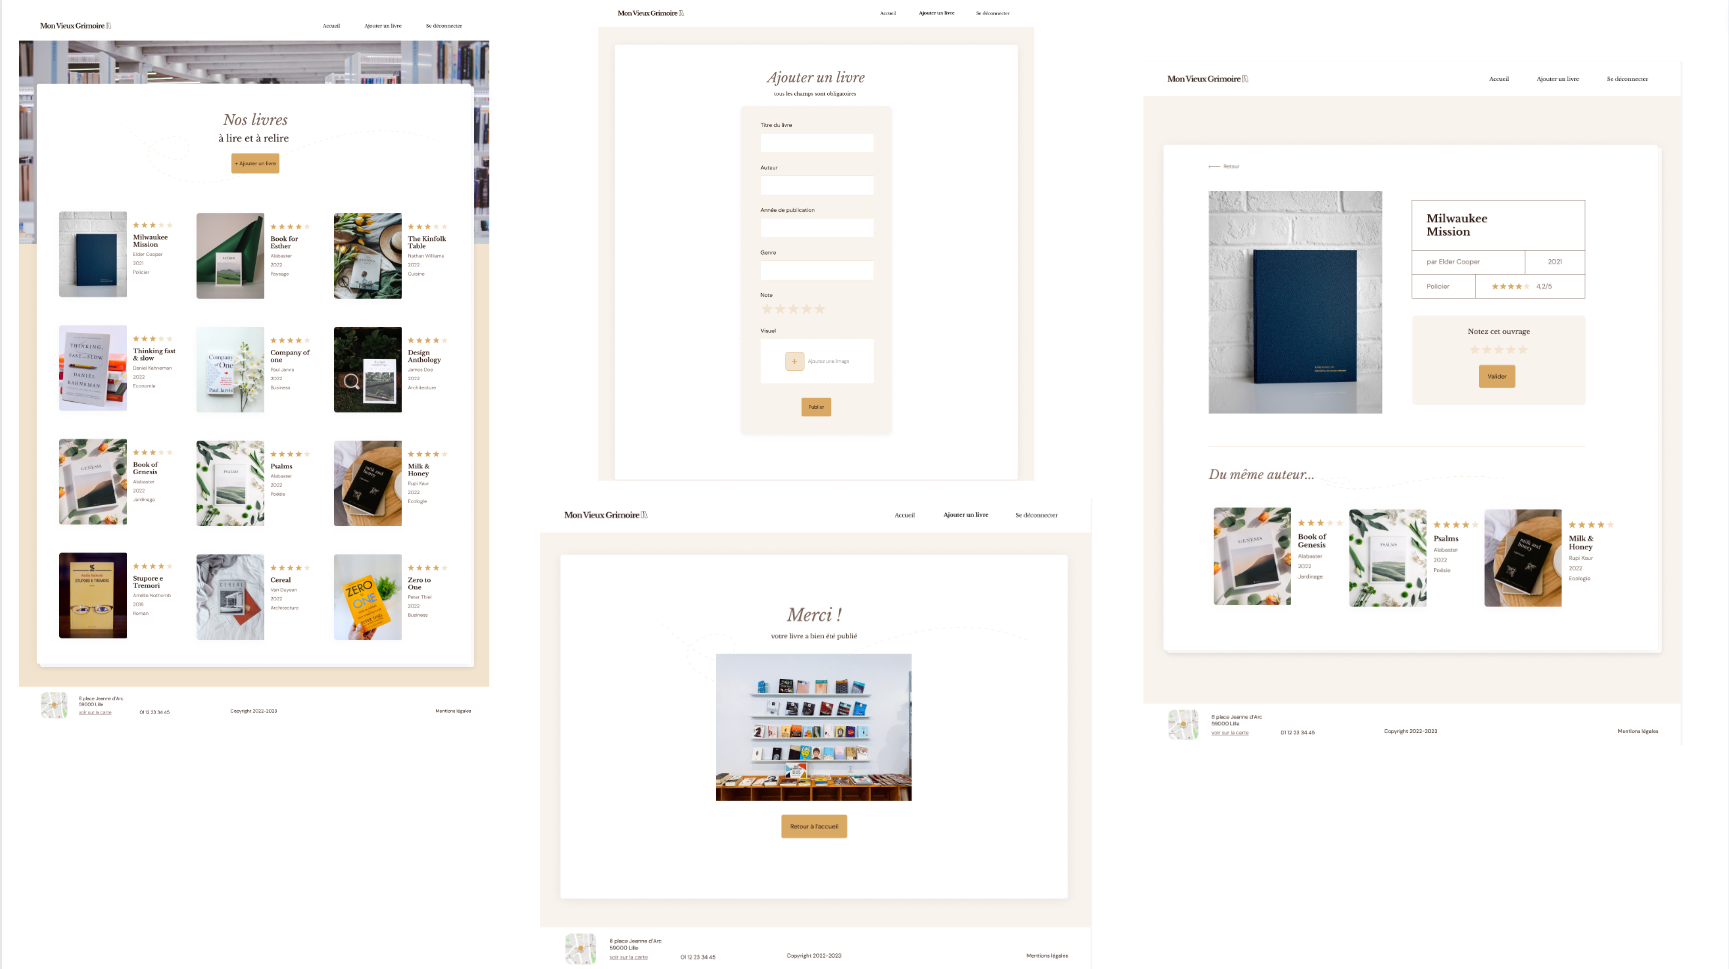
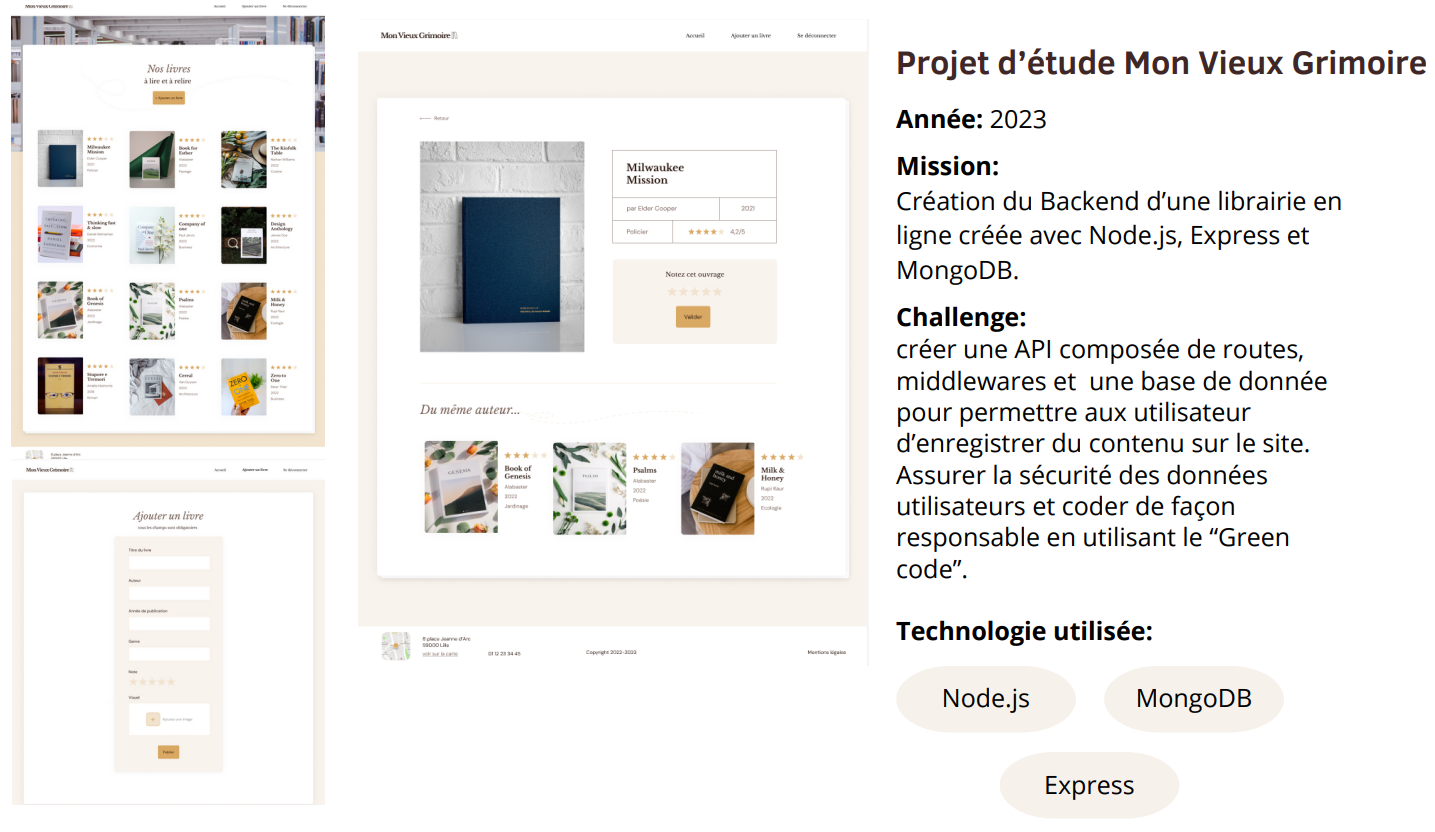
responsive and photo corrections

diff --git a/style.css b/style.css
@@ -1,6 +1,7 @@
 body {
     max-width: 1200px;
     margin: 0 auto; /* Centre la page horizontalement */
+    overflow-x: hidden;
 }
 header {
     display: flex;
@@ -599,11 +600,13 @@ font-weight: 500;
     flex-direction: column;
     align-items: center;
    }
+
    .top{
     display: flex;
     flex-wrap: wrap;
     padding-left: 0px;
    }
+
     h1{
     margin: 0 auto;
     padding-top: 50px;
@@ -623,8 +626,18 @@ font-weight: 500;
    }
 
    nav ul{
-    margin-left: 0px;
-    padding-left: 0;
+    
+    
+    background-color: rgb(232, 232, 26);
+    width: 77.2%
+    
+   }
+
+   .top li{
+    color:black;
+    padding-top: 10px;
+    padding-bottom: 10px;
+    margin-right: 10;
    }
 
    .presentation{
@@ -644,6 +657,8 @@ font-weight: 500;
 
    #lines{
     width: 100%;
+    margin-bottom: 50px;
+    font-size: 17px;
    }
         .portrait {
           display:flex;
@@ -706,11 +721,75 @@ font-weight: 500;
           width: 80%; /* Remarquez que j'ai ajusté la largeur de la zone de texte à 100% */
       }
 
+      #coordonnees{
+        display:flex;
+        flex-direction: column;
+        
+      }
+
+      .tel-mail{
+        widows: 100%;
+        padding-left: 0;
+        text-align: center;
+      }
+
+      #tel{
+        margin-bottom: 0;
+        padding-bottom: 0;
+      }
+
+      #tel  p{
+        font-family: arial;
+        font-size: 22px;
+        font-weight: 700;
+        margin-bottom: 5px;
+      }
+    
+      .tel-mail a {
+        color: black;
+        text-decoration: none;
+        font-family: 'Garamond';
+        font-size:20px
+      }
+    
+      #mail p{
+        font-family: Arial;
+        font-size: 22px;
+        font-weight: 700;
+        margin-bottom: 5px;
+        
+      }
+
+      .reseaux{
+        display:flex;
+        flex-direction: row;
+        gap:40px;
+        padding-right: 0;
+        padding-bottom: 20px;
+      }
+
       #footer{
         display:flex;
-        justify-content: left;
+        justify-content: center;
+        align-items: center; 
         flex-wrap: wrap;
-        height: 150px;
+        height: 120px;
+        padding-left: 0;
+      }
+
+      #footer p{
+        font-size: 16px;
+      }
+
+      #footer span{
+        font-size: 14px;
+        margin-left: 5px;
+        text-align: center;
+      }
+
+      #noms{
+        font-size: 27px;
+        padding-top: 10px;
       }
       
         
